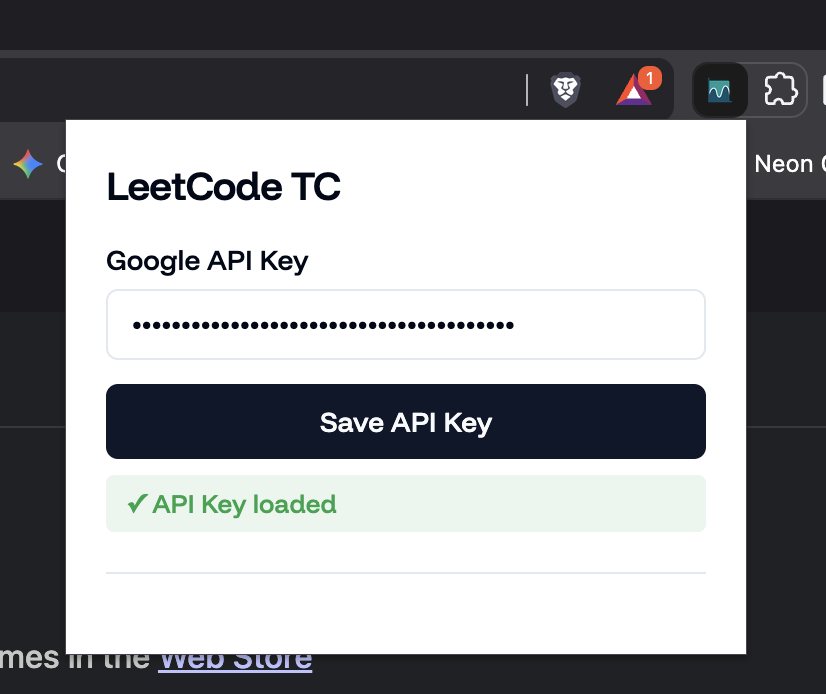
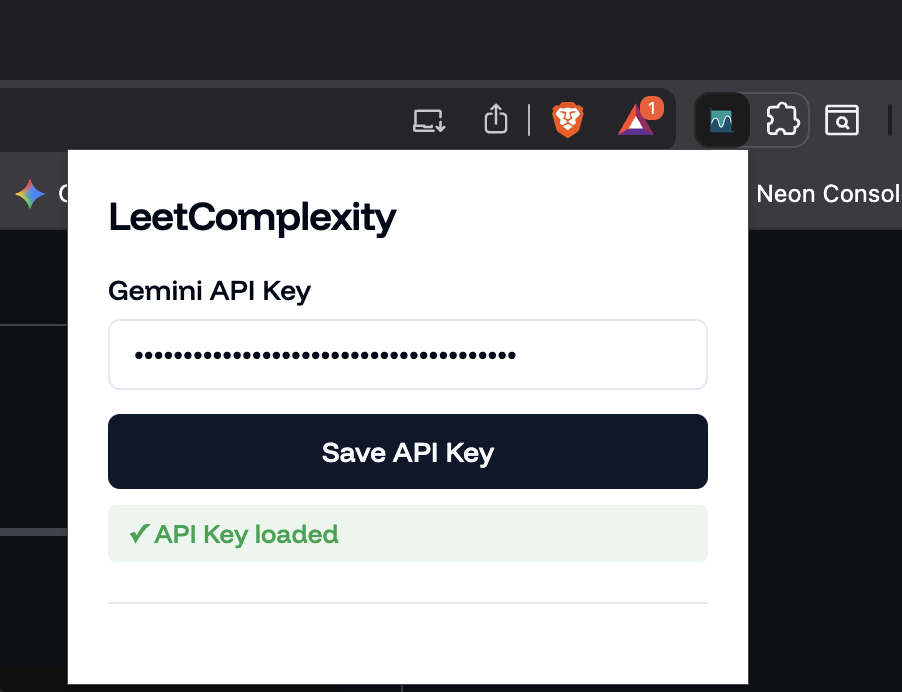
updated readme.md

Changed region(s): [[0.0, 0.0607, 1.0, 1.0]]

diff --git a/readme.md b/readme.md
@@ -13,15 +13,14 @@ Follow these steps to load the extension in Chrome:
 3. Enable **Developer mode** (toggle in the top-right corner)
 4. Click **Load unpacked**
 5. Select the folder containing the extension files
-6. The LeetCode TC extension should now appear in your extensions list
+6. The LeetComplexity extension should now appear in your extensions list
 
 ---
 
 ## 🚀 How to Use
 
 ### Step 0: Add Your API Key
-
-![Step 0](screenshots/0.png)
+<img src="screenshots/0.png" alt="Step 0" width="500" style="border-radius:12px;" />
 
 1. Click on the **LeetComplexity** extension icon in your Chrome toolbar
 2. Enter your **Google Gemini API Key** in the input field
@@ -34,7 +33,8 @@ Follow these steps to load the extension in Chrome:
 
 ### Step 1: Open a LeetCode Problem
 
-![Step 1](screenshots/1.png)
+<img src="screenshots/1.png" alt="Step 0" width="600" style="border-radius:12px;" />
+
 
 1. Navigate to any LeetCode problem (e.g., `https://leetcode.com/problems/two-sum/`)
 2. Write or paste your solution in the code editor
@@ -48,7 +48,8 @@ Follow these steps to load the extension in Chrome:
 
 ### Step 2: Wait for Analysis
 
-![Step 2](screenshots/2.png)
+<img src="screenshots/2.png" alt="Step 0" width="600" style="border-radius:12px;" />
+
 
 1. A popup will appear in the bottom-right corner showing "Analyzing..."
 2. The extension extracts your code from the Monaco editor
@@ -59,7 +60,8 @@ Follow these steps to load the extension in Chrome:
 
 ### Step 3: View Results
 
-![Step 3](screenshots/3.png)
+<img src="screenshots/3.png" alt="Step 0" width="600" style="border-radius:12px;" />
+
 
 1. The popup updates with the analysis results
 2. **Time Complexity** is displayed (e.g., O(n), O(n²), O(log n))
